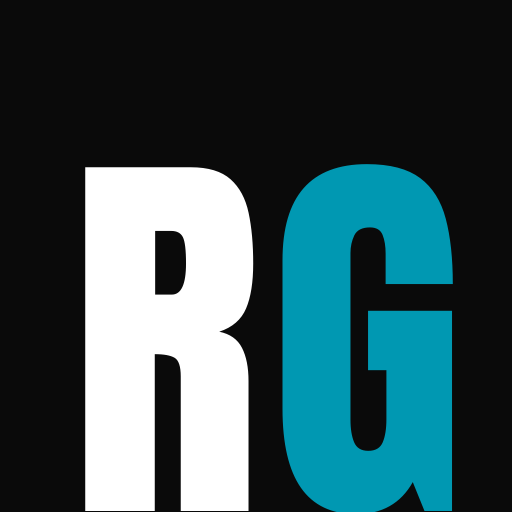
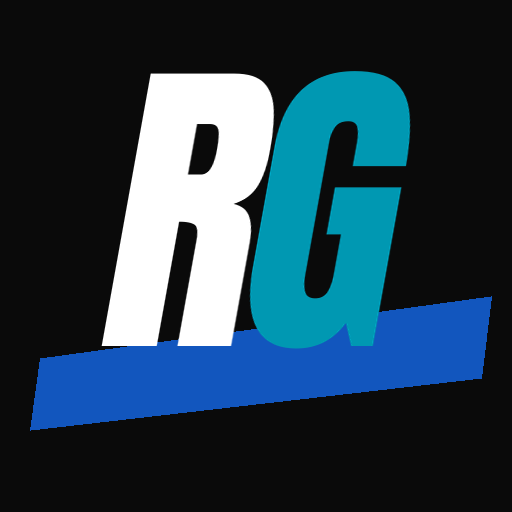
feat(marca): logótipo pessoal RG do Ricardo (monograma + nome) na página de marca
Claude-Session: https://claude.ai/code/session_01UrpBxeR4jMxcFAa5Dh6f7x

diff --git a/public/marca/ricardogarciapt/index.html b/public/marca/ricardogarciapt/index.html
@@ -9,6 +9,7 @@
 <meta property="og:title" content="Ricardo Garcia · Marca">
 <meta property="og:site_name" content="Ricardo Garcia">
 <meta property="og:image" content="https://www.morethanmoney.pt/marca/ricardogarciapt/logo-ricardo-garcia-fundo.png">
+<link rel="image_src" href="logo-rg-monograma.png">
 <link rel="icon" type="image/png" href="icone.png">
 <link rel="apple-touch-icon" href="icone.png">
 <style>
@@ -56,7 +57,7 @@ footer { margin-top: 64px; color: #777; font-size: 13px; }
 <body>
 <main>
   <header>
-    <img class="logo" src="logo-ricardo-garcia.png" alt="Ricardo Garcia logo" width="1600" height="560">
+    <img class="logo" src="logo-ricardo-garcia.png" alt="Ricardo Garcia logo" width="1414" height="420">
   </header>
   <h1>Ricardo<br><span class="c">Garcia</span></h1>
   <div class="handle">@ricardogarciapt · desenvolvimento e trading</div>
@@ -95,8 +96,16 @@ footer { margin-top: 64px; color: #777; font-size: 13px; }
   <h2>Exemplos de capa</h2>
   <div style="display:flex;gap:12px;flex-wrap:wrap"><img class="capa" style="width:min(300px,100%)" src="exemplo-capa-3.jpg" alt="Exemplo de capa de reel do @ricardogarciapt"><img class="capa" style="width:min(300px,100%)" src="exemplo-capa-2.jpg" alt="Exemplo de capa de reel do Ricardo Garcia"><img class="capa" style="width:min(300px,100%)" src="exemplo-capa.jpg" alt="Exemplo de capa a preto e branco"></div>
 
-  <h2>Logótipos</h2>
-  <img class="logo" src="logo-ricardo-garcia-fundo.png" alt="Ricardo Garcia logo sobre carvão" width="1600" height="560">
+  <h2>Logótipo</h2>
+  <p>Monograma «RG» em Anton itálico (R branco, G ciano) sobre a pincelada azul, ao lado do nome e do @. Usa-se o monograma sozinho em avatares, marcas de água e cantos de vídeo.</p>
+  <div style="display:flex;gap:16px;flex-wrap:wrap;align-items:center">
+    <img src="logo-rg-monograma.png" alt="Ricardo Garcia logo monograma RG" width="200" height="200" style="border-radius:16px">
+    <img src="logo-rg-monograma-transparente.png" alt="Ricardo Garcia logo RG transparente" width="200" height="200" style="background:#1a1a1a;border-radius:16px">
+  </div>
+  <p></p>
+  <img class="logo" src="logo-ricardo-garcia-fundo.png" alt="Ricardo Garcia logo sobre carvão" width="1800" height="420" style="border-radius:12px">
+  <p></p>
+  <img class="logo" src="logo-ricardo-garcia-claro.png" alt="Ricardo Garcia logo sobre fundo claro" width="1800" height="420" style="border-radius:12px">
   <p><img class="mtm" src="logo-mtm.png" alt="MoreThanMoney logo"> Marca associada: MoreThanMoney.</p>
 
   <footer>Ricardo Garcia · @ricardogarciapt · morethanmoney.pt</footer>
